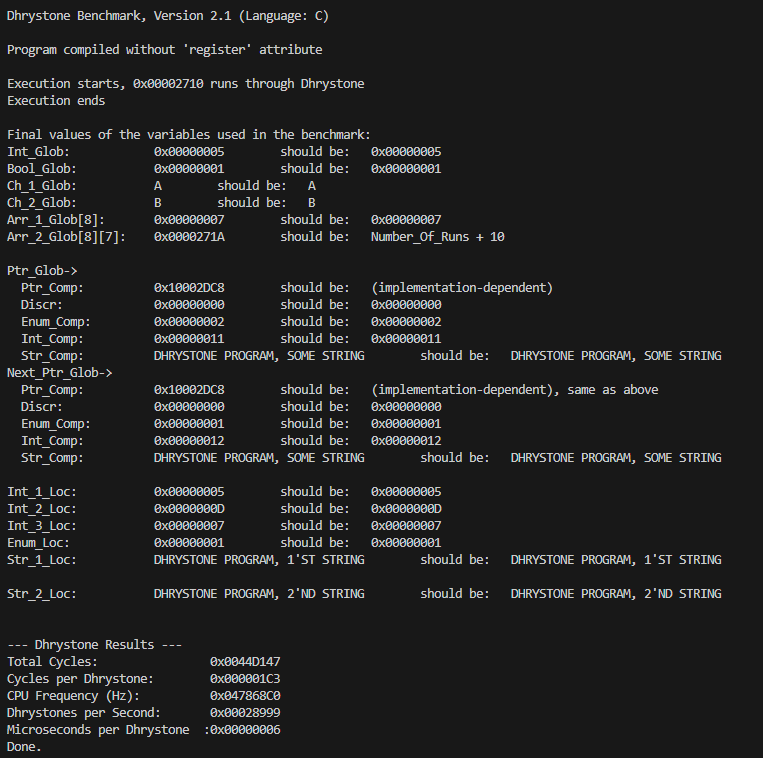
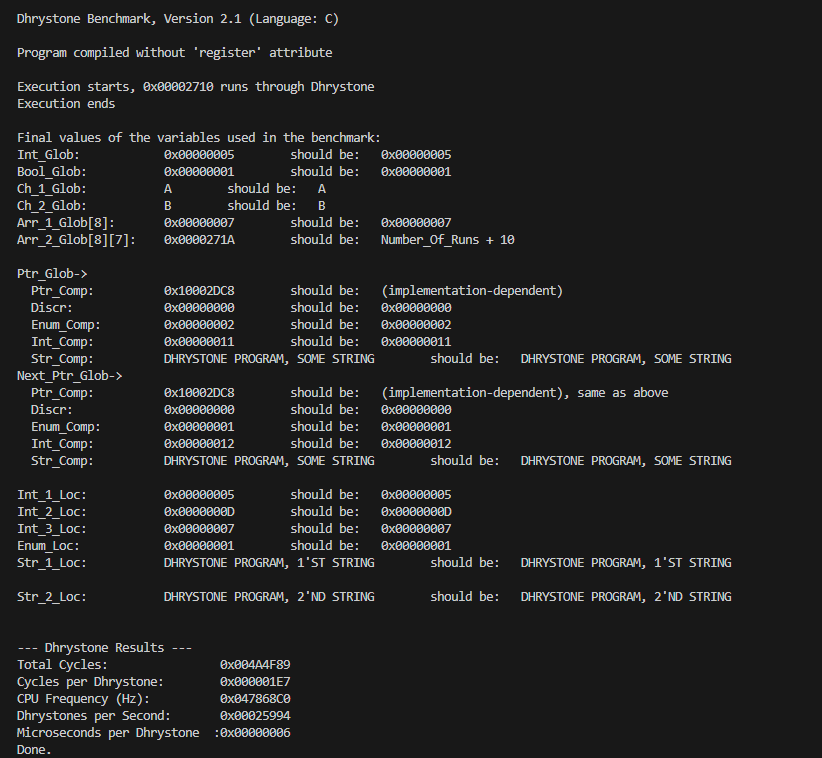
Updated README.md

diff --git a/README.md b/README.md
@@ -60,7 +60,7 @@ The image below shows that the core passes all the architectural tests for the R
 The image below shows that the core is working correctly with dhrystone benchmark. The core has a timer support to count the number of cycles the benchmark execution takes. The results reported are hex values and need to be converted to decimal for score calculation.
 
 $$
-\text{Total Cycles} = \text{0x0044D147} = \text{4510023}
+\text{Total Cycles} = \text{0x004A4F89} = \text{4870025}
 $$
 $$
 \text{Iterations} = \text{0x2710} = \text{10000}
@@ -69,47 +69,47 @@ $$
 \text{Clock Frequency} = \text{0x47868C0} = \text{75 MHz}
 $$
 $$
-\text{Cycles per Dhrystone} = \frac{\text{Total Cycles}}{\text{Iterations}} = \text{0x01C3} = \text{451}
+\text{Cycles per Dhrystone} = \frac{\text{Total Cycles}}{\text{Iterations}} = \text{0x01E7} = \text{487}
 $$
 $$
-\text{Dhrystone per Second} = \frac{\text{Clock Frequency}}{\text{Cycles per Dhrystone}} = \text{0x28999} = \text{166297}
+\text{Dhrystone per Second} = \frac{\text{Clock Frequency}}{\text{Cycles per Dhrystone}} = \text{0x25994} = \text{154004}
 $$
 
 These can be used to calculate Dhrystone results:
 
 $$
-\text{DMIPS} = \frac{\text{Dhrystone per Second}}{\text{1757}} = \text{94.65}
+\text{DMIPS} = \frac{\text{Dhrystone per Second}}{\text{1757}} = \text{87.65}
 $$
 $$
-\text{DMIPS/MHz} = \frac{\text{DMIPS}}{\text{Clock Frequency (in MHz)}} = \text{1.262}
+\text{DMIPS/MHz} = \frac{\text{DMIPS}}{\text{Clock Frequency (in MHz)}} = \text{1.168}
 $$
 
 ![Dhrystone](imgs/dhrystone.png)
 
 ### Coremark
 
-The image below shows that the core is working correctly with coremark benchmark. The core has a timer support to count the number of cycles the benchmark execution takes. 
+The image below shows that the core is working correctly with coremark benchmark. The core has a timer support to count the number of cycles the benchmark execution takes. The benchmark was run by 10MHz but the core gives upto 185MHz on Ultrascale+ (xczu3eg-sbva484-1-i).
 
 $$
-\text{Total Ticks} = \text{881970821}
+\text{Total Ticks} = \text{117908141}
 $$
 $$
-\text{Clock Frequency} = \text{75 MHz}
+\text{Clock Frequency} = \text{10 MHz}
 $$
 $$
-\text{Total time (secs)} = \frac{\text{Total Ticks}}{\text{Clock Frequency}} = \text{11.7596 (Core is Int so 11)} 
+\text{Total time (secs)} = \frac{\text{Total Ticks}}{\text{Clock Frequency}} = \text{11.79 (Core is Int so 11)} 
 $$
 $$
-\text{Iterations} = \text{1000}
+\text{Iterations} = \text{300}
 $$
 $$
-\text{Iterations/Sec} = \frac{\text{Iterations}}{\text{Total time (secs)}}= \text{90.9 (Core is Int so 90)}
+\text{Iterations/Sec} = \frac{\text{Iterations}}{\text{Total time (secs)}}= \text{25.44 (Core is Int so it become 27)}
 $$
 
 These can be used to calculate Coremark results:
 
 $$
-\text{Coremark/MHz} = \frac{\text{Iterations/Sec}}{\text{Clock Frequency (in MHz)}} = \text{1.212}
+\text{Coremark/MHz} = \frac{\text{Iterations/Sec}}{\text{Clock Frequency (in MHz)}} = \text{2.54}
 $$
 
 ![Coremark](imgs/coremark.png)
